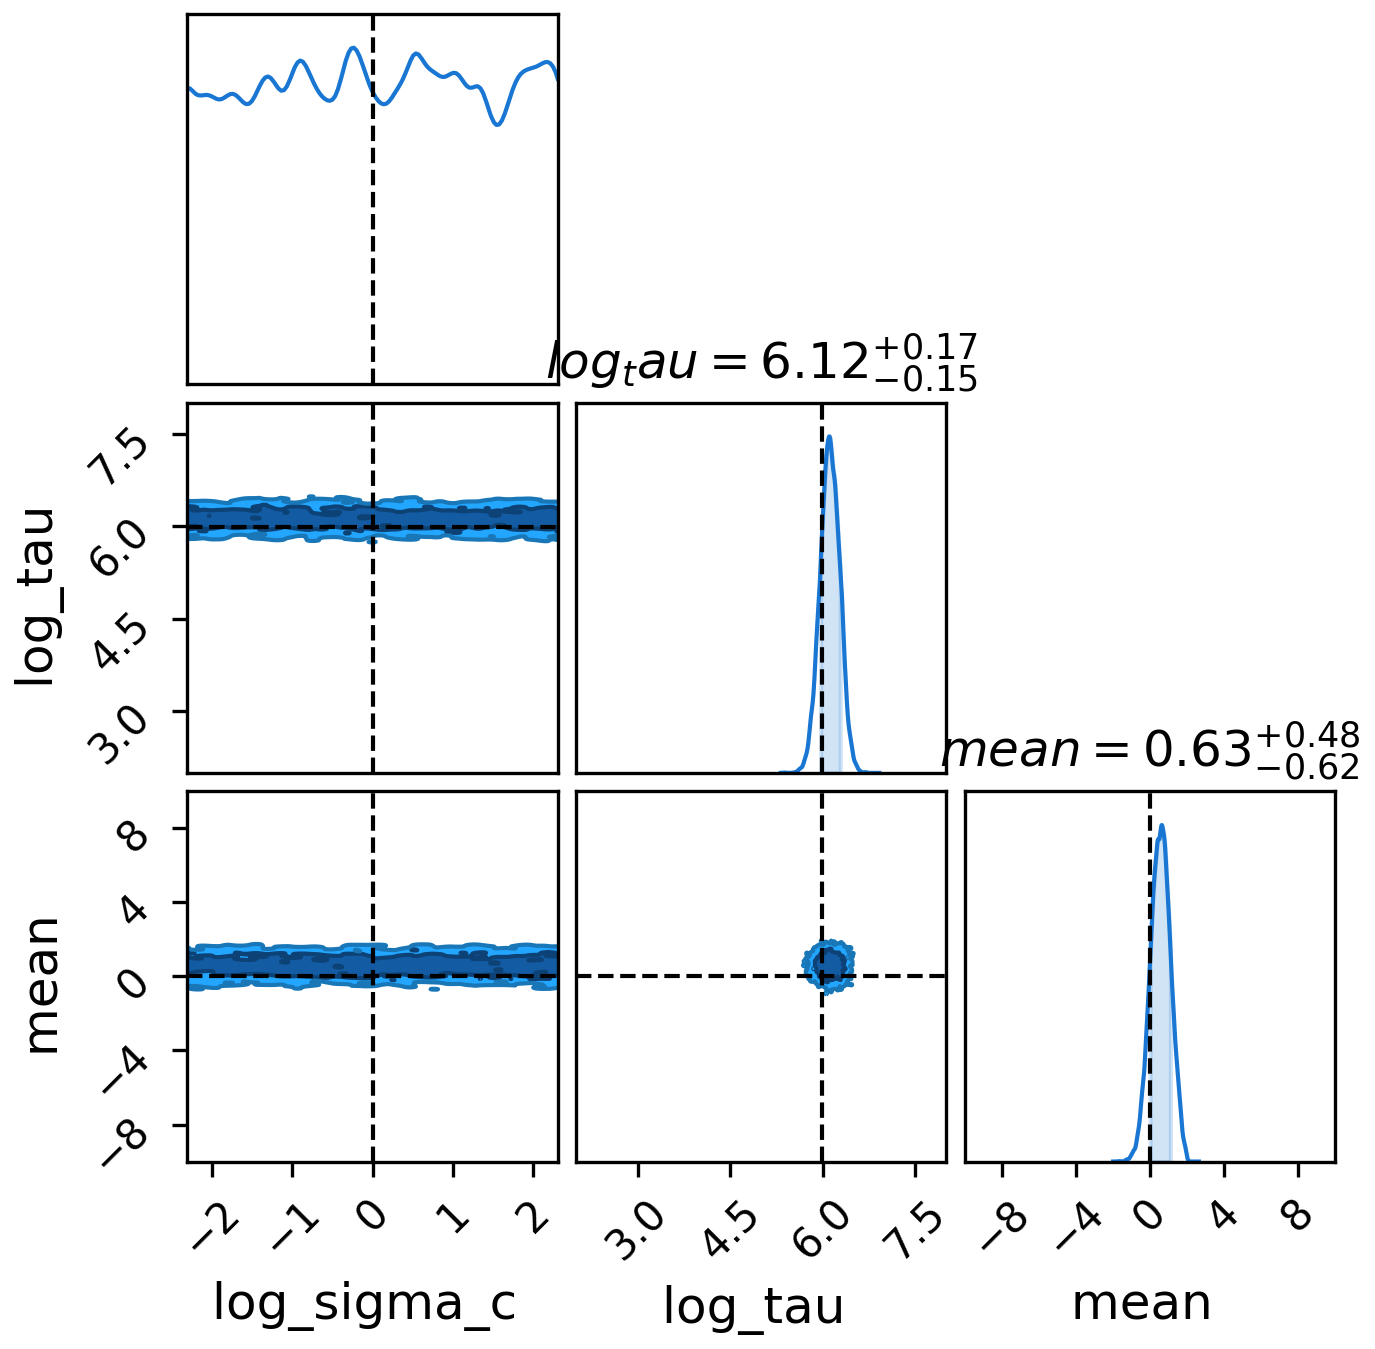
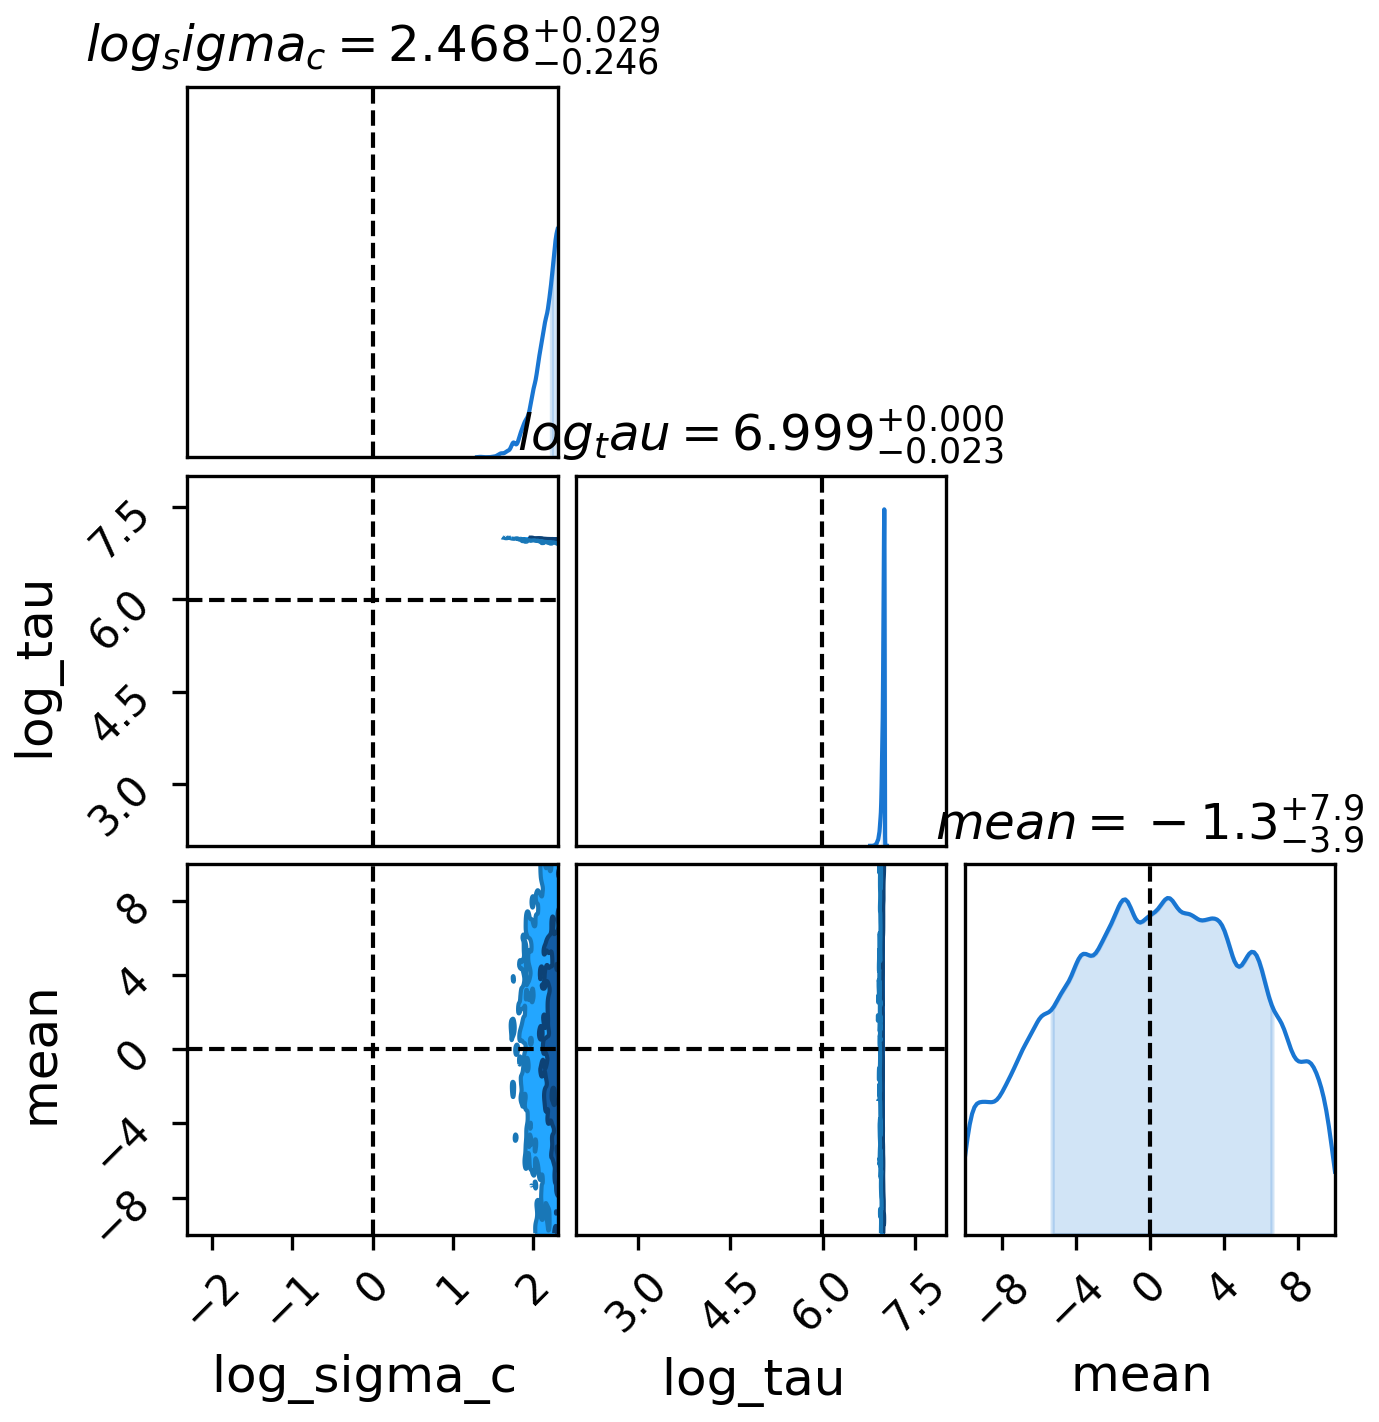
auto commit via batch

Changed region(s): [[0.0, 0.0, 1.0, 0.9963], [0.4887, 0.934, 0.6109, 0.9963]]

diff --git a/fitting_procedure.py b/fitting_procedure.py
@@ -62,7 +62,7 @@ def build_gp_single(data, params, basekernel=tinygp.kernels.Exp):
     #Data must be sorted for gp
     sort_inds = jnp.argsort(T)
 
-    kernel = basekernel(scale = tau)
+    kernel = basekernel(sigma = tau)
 
     #Make GP
     gp = GaussianProcess(
@@ -95,7 +95,7 @@ def cont_model(data):
     # ----------------------------------
     # Collect Params for tform
     tformed_data = copy(data)
-    tformed_data["Y"]-=mean
+    tformed_data["Y"] -=mean
     tformed_data["Y"] /= jnp.exp(log_sigma_c)
 
     tform_params = {"tau":jnp.exp(log_tau)}
